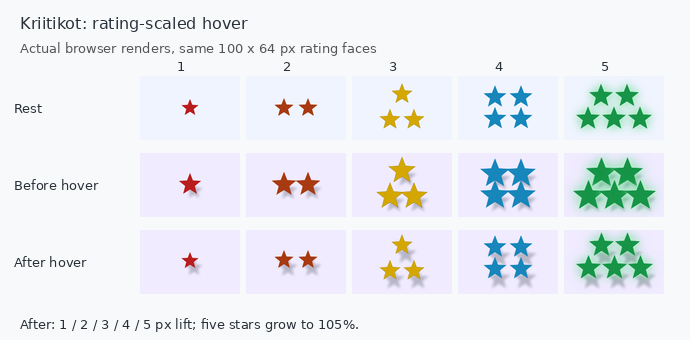
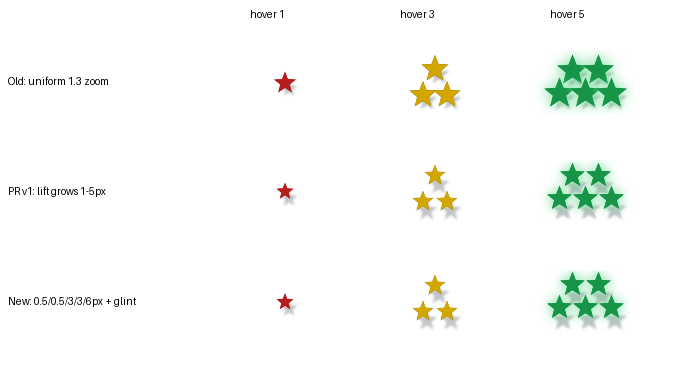
Retier star hover lift and add one-shot five-star glint
- Ratings 1 and 2 lift 0.5px (down from 1px and 2px)
- Ratings 3 and 4 both lift 3px (4 down from 4px)
- Rating 5 lifts 6px (up from 5px), keeps the 1.05 scale and adds a
  one-shot 550ms left-to-right glint across the constellation on hover
- Glint keyframes carry the resting glow; touch, reduced-motion, print
  and forced-colors stay still
- check_rating_hover pins the new LIFT map and glint lifecycle;
  check_rating_pills expects the mid-sweep glow and its return to rest
- Version 2026.11.22.2

diff --git a/docs/static/css/table.css b/docs/static/css/table.css
@@ -782,12 +782,12 @@ tbody tr:nth-child(even) td.window-odd-column { background-color: #fcfcfc; }
 .rating-star-empty { display: none; }
 .rating-star-empty .rating-star-paint::before { content: none; }
 .rating-pill.stars-1 {
-    --hover-lift: -1px;
+    --hover-lift: -0.5px;
     --cluster-size: 18px;
     --cluster-color: #b91c1c;
 }
 .rating-pill.stars-2 {
-    --hover-lift: -2px;
+    --hover-lift: -0.5px;
     --cluster-size: 20px;
     --cluster-color: #a83a12;
 }
@@ -798,12 +798,12 @@ tbody tr:nth-child(even) td.window-odd-column { background-color: #fcfcfc; }
     --cluster-edge: #8c7100;
 }
 .rating-pill.stars-4 {
-    --hover-lift: -4px;
+    --hover-lift: -3px;
     --cluster-size: 24px;
     --cluster-color: #1686bb;
 }
 .rating-pill.stars-5 {
-    --hover-lift: -5px;
+    --hover-lift: -6px;
     --hover-scale: 1.05;
     --cluster-size: 25px;
     --cluster-color: #179447;
@@ -860,6 +860,19 @@ tbody tr:nth-child(even) td.window-odd-column { background-color: #fcfcfc; }
         70.46% 56.65%, 79.39% 90.45%, 50% 71.5%,
         20.61% 90.45%, 29.54% 56.65%, 2.45% 34.55%, 37.36% 32.6%);
 }
+/* One bright pass left to right across the five-star constellation on
+   hover entry. One shot per hover, never a loop; the keyframes carry the
+   resting glow so it never drops out mid-sweep. */
+@keyframes fiveStarGlint {
+    0%, 100% {
+        filter: drop-shadow(0 0 2px #bbf7d0)
+            drop-shadow(0 0 5px rgba(34, 197, 94, .55)) brightness(1);
+    }
+    45% {
+        filter: drop-shadow(0 0 2px #d1fae5)
+            drop-shadow(0 0 6px rgba(34, 197, 94, .7)) brightness(1.5);
+    }
+}
 @media (hover: hover) and (pointer: fine) and
        (prefers-reduced-motion: no-preference) {
     .rating-star-paint { transition: transform 420ms ease; }
@@ -872,6 +885,25 @@ tbody tr:nth-child(even) td.window-odd-column { background-color: #fcfcfc; }
     .rating-pill:hover .rating-star-shadow {
         opacity: .28;
         transition-duration: 250ms;
+    }
+    .rating-pill.stars-5:hover .rating-star-paint {
+        animation: fiveStarGlint 550ms ease-in-out 1;
+    }
+    /* Sweep in star x order: 24, 37, 50, 63, 76. */
+    .rating-pill.stars-5:hover .rating-star:nth-child(3) .rating-star-paint {
+        animation-delay: 0ms;
+    }
+    .rating-pill.stars-5:hover .rating-star:nth-child(1) .rating-star-paint {
+        animation-delay: 70ms;
+    }
+    .rating-pill.stars-5:hover .rating-star:nth-child(4) .rating-star-paint {
+        animation-delay: 140ms;
+    }
+    .rating-pill.stars-5:hover .rating-star:nth-child(2) .rating-star-paint {
+        animation-delay: 210ms;
+    }
+    .rating-pill.stars-5:hover .rating-star:nth-child(5) .rating-star-paint {
+        animation-delay: 280ms;
     }
 }
 /* Background graphics can be suppressed in print and forced-colors modes.
@@ -889,6 +921,7 @@ tbody tr:nth-child(even) td.window-odd-column { background-color: #fcfcfc; }
         filter: none !important;
         transform: none !important;
         transition: none !important;
+        animation: none !important;
     }
     .rating-star-shadow { display: none; }
     .rating-star-paint::before, .rating-star-paint::after { content: none; }

diff --git a/static/css/table.css b/static/css/table.css
@@ -782,12 +782,12 @@ tbody tr:nth-child(even) td.window-odd-column { background-color: #fcfcfc; }
 .rating-star-empty { display: none; }
 .rating-star-empty .rating-star-paint::before { content: none; }
 .rating-pill.stars-1 {
-    --hover-lift: -1px;
+    --hover-lift: -0.5px;
     --cluster-size: 18px;
     --cluster-color: #b91c1c;
 }
 .rating-pill.stars-2 {
-    --hover-lift: -2px;
+    --hover-lift: -0.5px;
     --cluster-size: 20px;
     --cluster-color: #a83a12;
 }
@@ -798,12 +798,12 @@ tbody tr:nth-child(even) td.window-odd-column { background-color: #fcfcfc; }
     --cluster-edge: #8c7100;
 }
 .rating-pill.stars-4 {
-    --hover-lift: -4px;
+    --hover-lift: -3px;
     --cluster-size: 24px;
     --cluster-color: #1686bb;
 }
 .rating-pill.stars-5 {
-    --hover-lift: -5px;
+    --hover-lift: -6px;
     --hover-scale: 1.05;
     --cluster-size: 25px;
     --cluster-color: #179447;
@@ -860,6 +860,19 @@ tbody tr:nth-child(even) td.window-odd-column { background-color: #fcfcfc; }
         70.46% 56.65%, 79.39% 90.45%, 50% 71.5%,
         20.61% 90.45%, 29.54% 56.65%, 2.45% 34.55%, 37.36% 32.6%);
 }
+/* One bright pass left to right across the five-star constellation on
+   hover entry. One shot per hover, never a loop; the keyframes carry the
+   resting glow so it never drops out mid-sweep. */
+@keyframes fiveStarGlint {
+    0%, 100% {
+        filter: drop-shadow(0 0 2px #bbf7d0)
+            drop-shadow(0 0 5px rgba(34, 197, 94, .55)) brightness(1);
+    }
+    45% {
+        filter: drop-shadow(0 0 2px #d1fae5)
+            drop-shadow(0 0 6px rgba(34, 197, 94, .7)) brightness(1.5);
+    }
+}
 @media (hover: hover) and (pointer: fine) and
        (prefers-reduced-motion: no-preference) {
     .rating-star-paint { transition: transform 420ms ease; }
@@ -872,6 +885,25 @@ tbody tr:nth-child(even) td.window-odd-column { background-color: #fcfcfc; }
     .rating-pill:hover .rating-star-shadow {
         opacity: .28;
         transition-duration: 250ms;
+    }
+    .rating-pill.stars-5:hover .rating-star-paint {
+        animation: fiveStarGlint 550ms ease-in-out 1;
+    }
+    /* Sweep in star x order: 24, 37, 50, 63, 76. */
+    .rating-pill.stars-5:hover .rating-star:nth-child(3) .rating-star-paint {
+        animation-delay: 0ms;
+    }
+    .rating-pill.stars-5:hover .rating-star:nth-child(1) .rating-star-paint {
+        animation-delay: 70ms;
+    }
+    .rating-pill.stars-5:hover .rating-star:nth-child(4) .rating-star-paint {
+        animation-delay: 140ms;
+    }
+    .rating-pill.stars-5:hover .rating-star:nth-child(2) .rating-star-paint {
+        animation-delay: 210ms;
+    }
+    .rating-pill.stars-5:hover .rating-star:nth-child(5) .rating-star-paint {
+        animation-delay: 280ms;
     }
 }
 /* Background graphics can be suppressed in print and forced-colors modes.
@@ -889,6 +921,7 @@ tbody tr:nth-child(even) td.window-odd-column { background-color: #fcfcfc; }
         filter: none !important;
         transform: none !important;
         transition: none !important;
+        animation: none !important;
     }
     .rating-star-shadow { display: none; }
     .rating-star-paint::before, .rating-star-paint::after { content: none; }

diff --git a/docs/index.html b/docs/index.html
@@ -7,7 +7,7 @@
     <title>Mitä katsoa elokuvateatterissa? – Kriitikon valinta – Elokuva-arvostelut</title>
     <meta name="description"
         content="Mitä katsoa elokuvateatterissa? Lue suomalaisten kriitikoiden elokuva-arvostelut elokuvateattereissa nyt pyörivistä elokuvista ja löydä parhaat uudet elokuvat. Vertaile arvioita: HS, IS, SK, ja muut.">
-    <meta name="version" content="2026.11.22.1">
+    <meta name="version" content="2026.11.22.2">
     <link rel="canonical" href="https://kriitikot.sulopuis.to/">
     <meta name="robots" content="index, follow">
     <script type="application/ld+json">

diff --git a/scripts/check_rating_hover.py b/scripts/check_rating_hover.py
@@ -16,6 +16,10 @@ import threading
 from playwright.sync_api import sync_playwright
 
 ROOT = Path(__file__).resolve().parents[1]
+
+# Hover lift in CSS pixels per rating: 1 and 2 barely rise, 3 and 4 match
+# the old three-star lift, 5 rises farthest and also scales to 1.05.
+LIFT = {1: .5, 2: .5, 3: 3, 4: 3, 5: 6}
 OUT = Path(os.environ.get('SCREENSHOT_DIR') or
            tempfile.mkdtemp(prefix='kriitikot-h6-'))
 OUT.mkdir(parents=True, exist_ok=True)
@@ -81,6 +85,9 @@ try:
                         rest = pill.evaluate(STATE)
                         assert rest['face'][-1] == 'rgba(0, 0, 0, 0)', rest
                         assert all(s['opacity'] == 0 for s in rest['stars'])
+                        rest_filter = pill.evaluate(
+                            "p=>getComputedStyle(p.querySelector("
+                            "'.rating-star-paint')).filter")
                         pill.hover()
                         page.wait_for_timeout(300)
                         raised = pill.evaluate(STATE)
@@ -90,7 +97,7 @@ try:
                             assert after['shadow'] == before['shadow']
                             assert after['inside']
                             assert abs(after['lift'] - (
-                                0 if touch else rating)) < .02
+                                0 if touch else LIFT[rating])) < .02
                             assert before['scale'] == 1
                             assert before['lift'] == 0
                             assert abs(after['scale'] - (
@@ -98,6 +105,11 @@ try:
                             assert abs(after['opacity'] - (
                                 0 if touch else .28)) < .001
                         if not touch:
+                            anim = pill.evaluate(
+                                "p=>getComputedStyle(p.querySelector("
+                                "'.rating-star-paint')).animationName")
+                            assert anim == (
+                                'fiveStarGlint' if rating == 5 else 'none')
                             visible = Image.open(io.BytesIO(
                                 pill.screenshot())).convert('RGB')
                             shadows = pill.query_selector_all(
@@ -119,6 +131,12 @@ try:
                         if rating == 5 and not touch:
                             page.wait_for_timeout(5100)
                             assert pill.evaluate(STATE) == raised
+                            # The one-shot glint has ended; the resting
+                            # glow remains, unchanged.
+                            assert pill.evaluate(
+                                "p=>getComputedStyle(p.querySelector("
+                                "'.rating-star-paint')).filter"
+                            ) == rest_filter
                         page.mouse.move(0, 0)
                         page.wait_for_timeout(550)
                         assert pill.evaluate(STATE) == rest, (

diff --git a/scripts/check_rating_pills.py b/scripts/check_rating_pills.py
@@ -321,7 +321,28 @@ try:
                             before = pill.evaluate(MEASURE)
                             pill.hover()
                             page.wait_for_timeout(300)
-                            assert pill.evaluate(MEASURE) == before
+                            after = pill.evaluate(MEASURE)
+                            if rating == 5:
+                                # The one-shot glint animates the five-star
+                                # glow mid-sweep; everything else stays put.
+                                assert 'brightness' in after['glow'], after
+                                assert 'brightness' not in before['glow']
+                                assert pill.evaluate(
+                                    "p=>getComputedStyle(p.querySelector("
+                                    "'.rating-star-paint')).animationName"
+                                ) == 'fiveStarGlint'
+                                after = {k: v for k, v in after.items()
+                                         if k != 'glow'}
+                                before_still = {k: v for k, v in before.items()
+                                                if k != 'glow'}
+                            else:
+                                before_still = before
+                            assert after == before_still
+                            if rating == 5:
+                                # The glint is one-shot: the resting glow
+                                # returns once the sweep has ended.
+                                page.wait_for_timeout(800)
+                                assert pill.evaluate(MEASURE) == before
                             pill.focus()
                             assert pill.evaluate(
                                 "p=>getComputedStyle(p).outlineStyle"

diff --git a/src/app.py b/src/app.py
@@ -34,7 +34,7 @@ app.jinja_env.filters['publication_name'] = publication_name
 app.jinja_env.filters['publication_names'] = publication_names
 app.jinja_env.globals['publication_names_map'] = PUBLICATION_NAMES
 
-APP_VERSION = "2026.11.22.1"
+APP_VERSION = "2026.11.22.2"
 
 # Tietokantayhteys
 engine = get_engine()

diff --git a/AGENTS.md b/AGENTS.md
@@ -1,5 +1,16 @@
 # Kriitikot — Agent Reference
 
+## Retiered hover lift and five-star glint, 2026-11-22
+
+Hover lift no longer grows 1px per star: ratings 1 and 2 lift 0.5px, 3 and
+4 lift 3px, and 5 lifts 6px while keeping the 1.05 scale. Five stars add a
+one-shot 550ms left-to-right glint across the constellation on hover entry
+(fiveStarGlint keyframes carry the resting glow so it never drops out),
+staggered 70ms per star in x order; the animation lives inside the
+hover/pointer/no-preference media query, so touch and reduced motion stay
+still. scripts/check_rating_hover.py pins the LIFT map, the glint
+animation name per rating and the glow's return to rest after it ends.
+
 ## Bare rating clusters and hover values, 2026-11-21
 
 Remove the cluster wash, not the star colors, five-slot accessible text or H6

diff --git a/CHANGELOG.md b/CHANGELOG.md
@@ -1,5 +1,12 @@
 ## 2026-11-21
 
+## 2026.11.22.2
+
+- Retiered star hover lift: one and two stars barely rise (0.5px), three and
+  four rise 3px, five rises 6px and still grows to 105%. Five-star ratings
+  add a one-shot left-to-right glint across the constellation on hover entry.
+  Touch and reduced-motion settings stay still.
+
 ## 2026.11.22.1
 
 - Star hover lift now grows from 1px at one star to 5px at five stars. Five-star ratings also grow to 105%, with fixed shadows and no motion on touch or reduced-motion settings.
